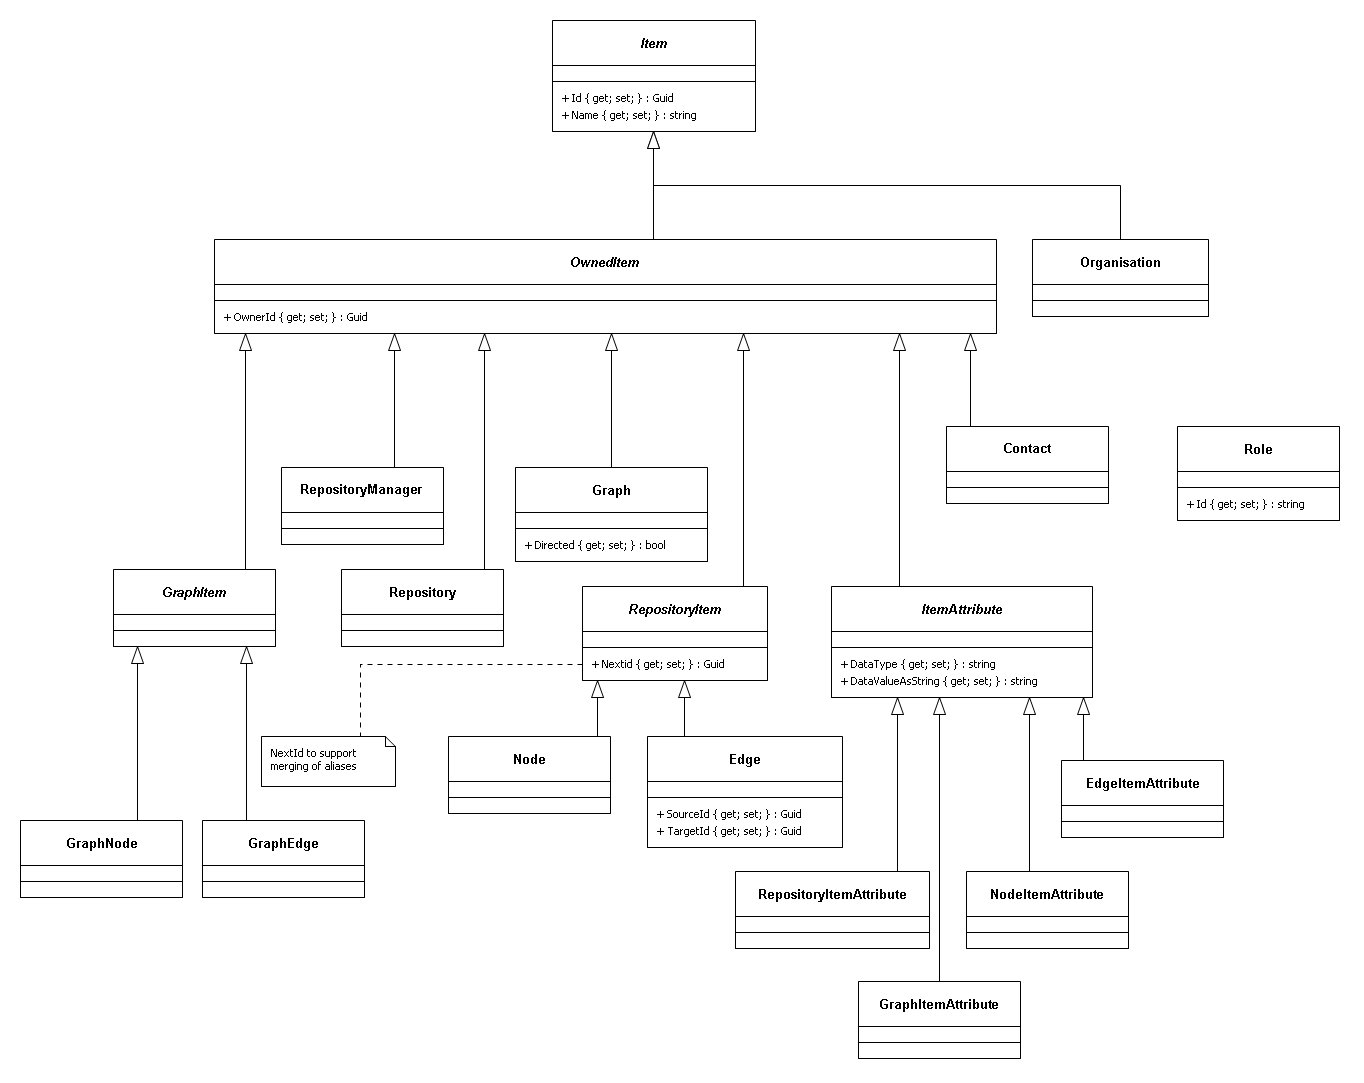
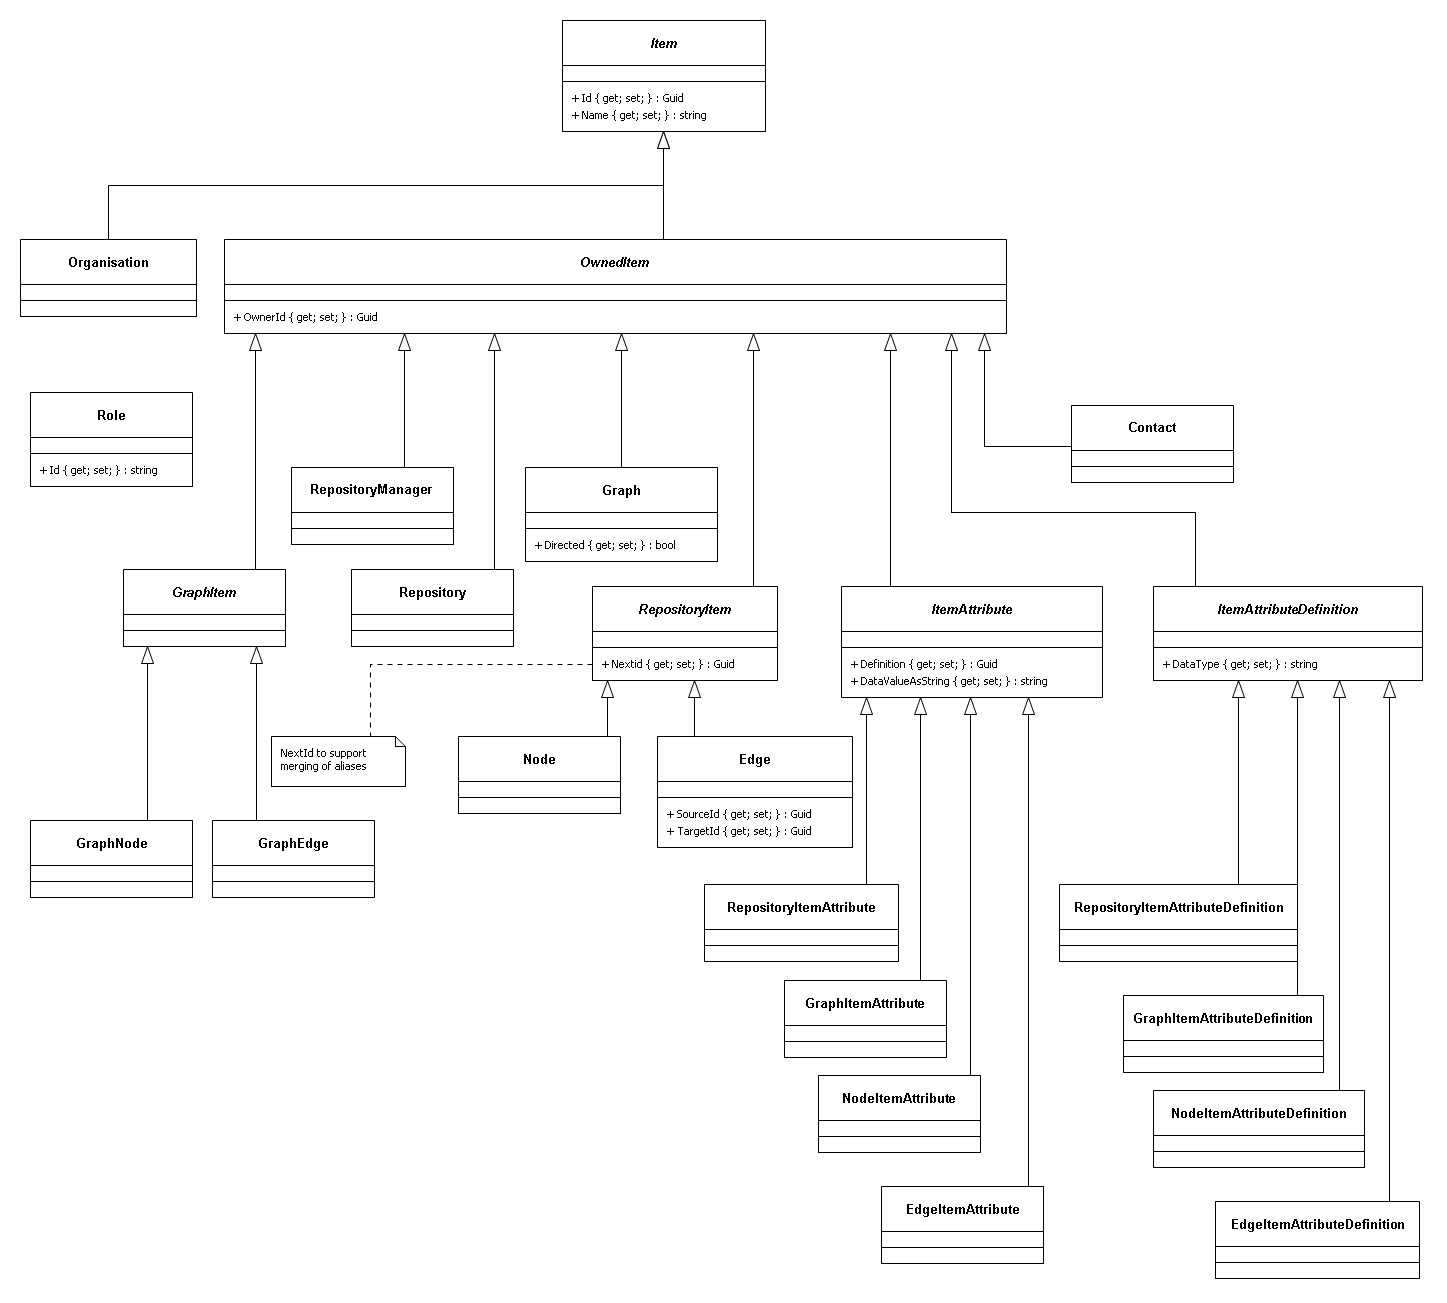
- update descriptions of objects
- added design for ItemAttributeDefinitions

diff --git a/README.md b/README.md
@@ -188,10 +188,23 @@ MESSAGE_QUEUE_USE_THREADS       | | False
 <details>
   <summary>Description</summary>
 
+<details>
+  <summary>Base</summary>
+  Abstract entities which are ancestors for other GraphML entities.
+
   * Item
     * Ultimate ancestor of all GraphML objects.
     * Models something which can be persisted.
     * Every item ultimately belongs to an Organisation
+  * OwnedItem
+    * Something which has an immediate owner, other than an Organisation
+
+</details>
+
+<details>
+  <summary>Containers</summary>
+  Entities which serve as a holding place for other entities.
+  
   * Organisation
     * Typically a company, organisation or other legal entity in which people work together.
       * police force
@@ -199,7 +212,87 @@ MESSAGE_QUEUE_USE_THREADS       | | False
       * FBI
       * military
       * bank
+    * Used to isolate information between different Organisations
     * Id and OrganisationId **must** be the same
+  * RepositoryManager
+    * A means to group a subset of Repository in an Organisation in some logical manner.
+    * For example, repositories could be grouped at a departmental level eg 'Financial Fraud' or 'Credit Control'.
+    * ItemAttributeDefinition are held at RepositoryManager level so they can be shared across Repository.
+  * Repository
+    * A complete collection of Node and Edge representing an area of interest.
+  * Graph
+    * A subset of Node and Edge from a Repository which have been extracted for separate analysis.
+    * A Graph may be directed; in contract to a Repository, which has no notion of direction.
+
+</details>
+
+<details>
+  <summary>Graph</summary>
+
+  * RepositoryItem
+    * Something which is in a Repository, either a Node or an Edge
+  * Node
+    * A vertex representing something of interest.
+    * A Node may be connected to zero or one other Nodes by an Edge
+    * A Node may have properties associated with it via an NodeItemAttribute
+  * Edge
+    * A link connecting two Node.
+    * An Edge may have a 'weight/s' (or other properties) associated with it via an EdgeItemAttribute
+    * An Edge is not directed 'per se'; this is set on the Graph
+    <p/>
+  * GraphItem
+    * Something which is in a Graph, either a GraphNode or a GraphEdge
+  * GraphNode
+    * A Node which appears in a Graph.
+    * Name may be different to that of underlying Node
+  * GraphEdge
+    * An Edge which appears in a Graph.
+    * Name may be different to that of underlying Edge
+
+</details>
+
+<details>
+  <summary>Attributes</summary>
+  ItemAttributeDefinition are held at RepositoryManager level so they can be shared across Repository.
+
+  * ItemAttributeDefinition
+    * Defines shape (name and data type) of information in an ItemAttribute
+  * RepositoryItemAttributeDefinition
+    * Defines shape of information in a RepositoryItemAttribute
+  * GraphItemAttributeDefinition
+    * Defines shape of information in a GraphItemAttribute
+  * NodeItemAttributeDefinition
+    * Defines shape of information in a NodeItemAttribute
+  * EdgeItemAttributeDefinition
+    * Defines shape of information in an EdgeItemAttribute
+    <p/>
+  * ItemAttribute
+    * Additional information attached to an Item
+  * RepositoryItemAttribute
+    * Additional information attached to a Repository
+  * GraphItemAttribute
+    * Additional information attached to a Graph
+  * NodeItemAttribute
+    * Additional information attached to a Node
+  * EdgeItemAttribute
+    * Additional information attached to an Edge
+    <p/>
+  * Currently supported data types:
+    * string
+    * bool
+    * int
+    * double
+    * DateTime (UTC)
+  * To be supported:
+    * DateInterval
+      * [Noda Time](https://nodatime.org/2.0.x/api/NodaTime.DateInterval.html)
+      * [ST-Software/Utils](https://github.com/ST-Software/Utils/blob/master/src/DateTimeUtils.cs)
+
+</details>
+
+<details>
+  <summary>Support</summary>
+
   * Contact
     * A person identified by their email address.
     * The email address (Name) is used to link authentication (IdentityServer) to Role.
@@ -209,45 +302,8 @@ MESSAGE_QUEUE_USE_THREADS       | | False
     * A Contact may have one or more Roles
   * Roles
     * User roles within GraphML
-    * 
-  * OwnedItem
-    * Something which has an immediate owner, other than an Organisation
-  * RepositoryManager
-    * A means to group a subset of Repository in an Organisation in some logical manner.
-    * For example, repositories could be grouped at a departmental level eg 'Financial Fraud' or 'Credit Control'
-  * Repository
-    * A complete collection of Node and Edge representing an area of interest.
-  * GraphItem
-    * Something which is in a Graph, either a GraphNode or a GraphEdge
-  * Graph
-    * A subset of Node and Edge from a Repository which have been extracted for separate analysis.
-    * A Graph may be directed; in contract to a Repository, which has no notion of direction.
-  * RepositoryItem
-    * Something which is in a Repository, either a Node or an Edge
-  * ItemAttribute
-    * Additional data information attached to an Item
-  * GraphNode
-    * A Node which appears in a Graph.
-    * Name may be different to that of underlying Node
-  * GraphEdge
-    * An Edge which appears in a Graph.
-    * Name may be different to that of underlying Edge
-  * Node
-    * A vertex representing something of interest.
-    * A Node may be connected to zero or one other Nodes by an Edge
-    * A Node may have properties associated with it via an NodeItemAttribute
-  * Edge
-    * A link connecting two Node.
-    * An Edge may have a 'weight/s' (or other properties) associated with it via an EdgeItemAttribute
-    * An Edge is not directed 'per se'; this is set on the Graph
-  * RepositoryItemAttribute
-    * Additional data information attached to a Repository
-  * GraphItemAttribute
-    * Additional data information attached to a Graph
-  * NodeItemAttribute
-    * Additional data information attached to a Node
-  * EdgeItemAttribute
-    * Additional data information attached to an Edge
+
+</details>
 
 </details>
 

diff --git a/GraphML.Datastore.Database.Importer.CSV/README.md b/GraphML.Datastore.Database.Importer.CSV/README.md
@@ -57,7 +57,7 @@
   * int
   * double
   * date-time
-  * duration
+  * date-interval
 * edge weight (via attribute)
 * edge name
 
